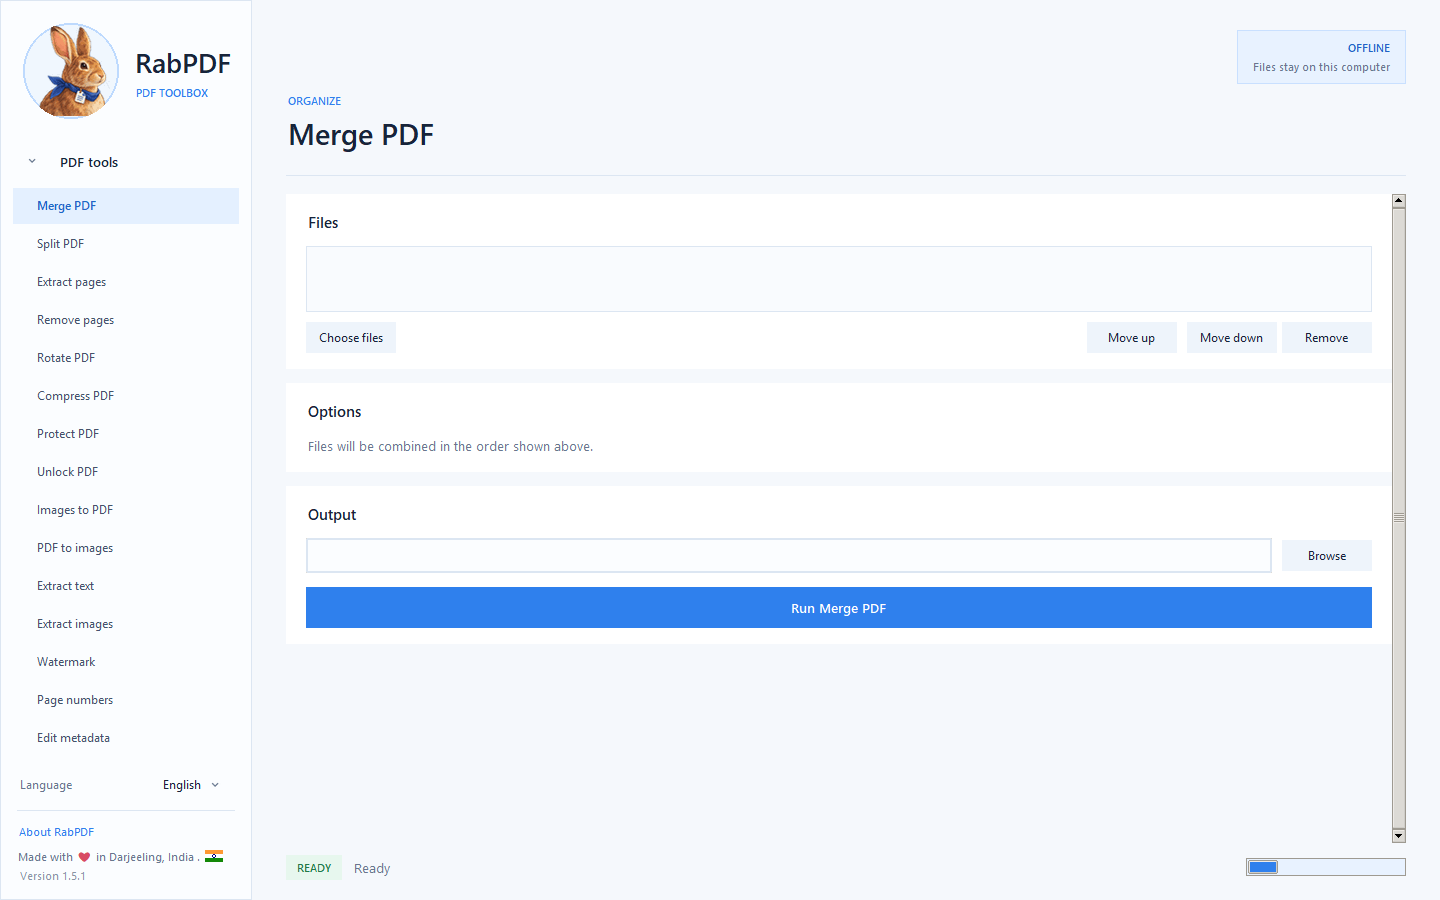
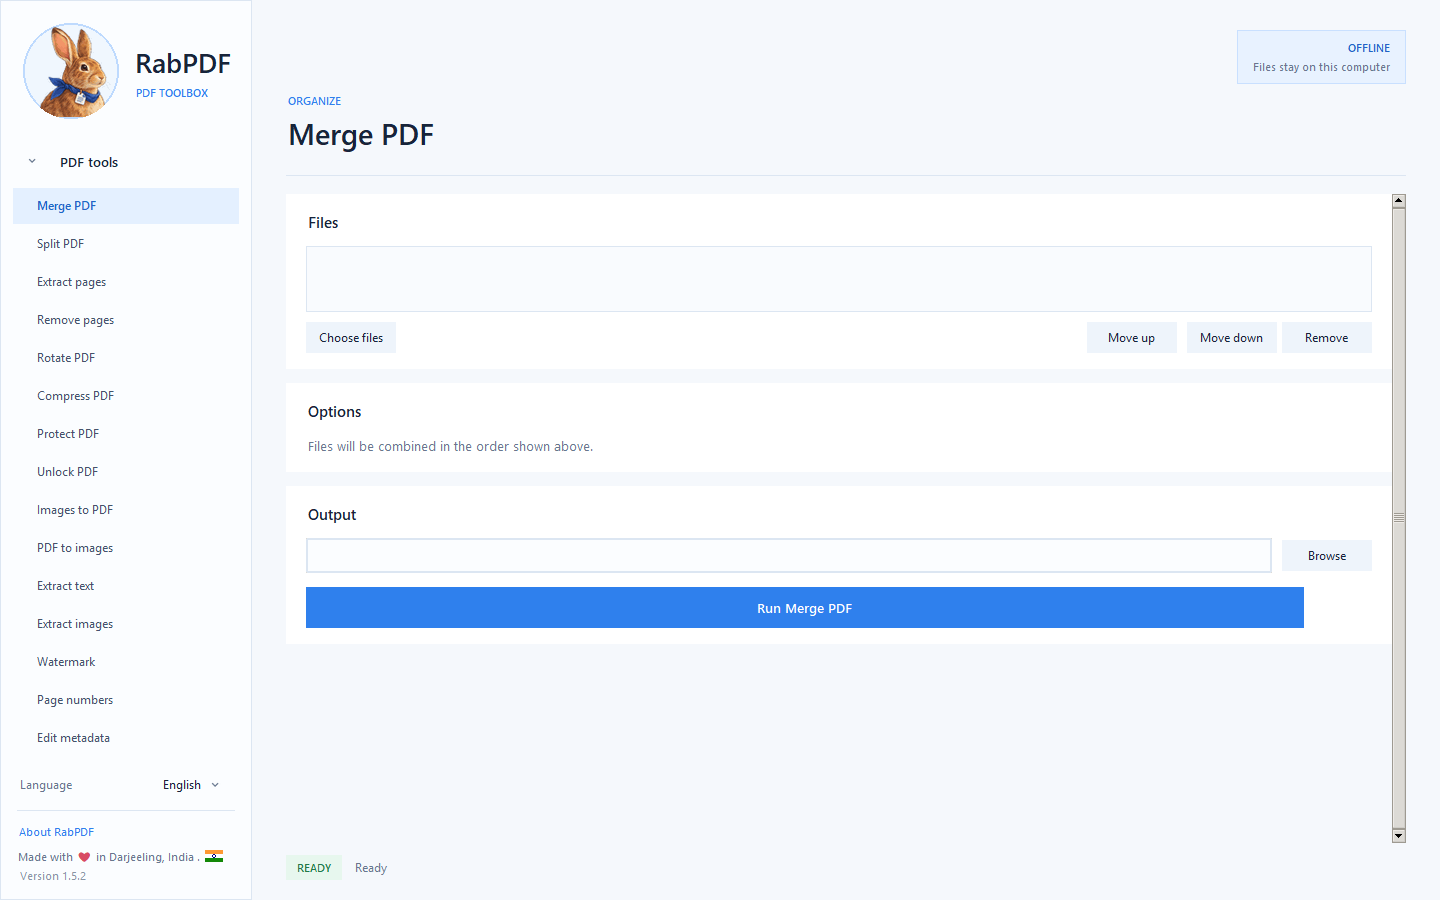
Release Windows 1.5.2 processing and output UI

diff --git a/README.md b/README.md
@@ -9,8 +9,8 @@ need to be installed. This repository hosts downloads, not application source.
 
 [Download the latest Windows release](https://github.com/nishanchettri/RabPDF-Releases/releases/latest)
 
-- **RabPDF-Windows-1.5.1.exe:** download and double-click to run.
-- **RabPDF-Windows-1.5.1-FastStart.zip:** extract first, then run RabPDF.exe.
+- **RabPDF-Windows-1.5.2.exe:** download and double-click to run.
+- **RabPDF-Windows-1.5.2-FastStart.zip:** extract first, then run RabPDF.exe.
   Keep the included _internal folder alongside the executable. This edition
   starts faster.
 - **SHA256SUMS.txt:** checksums for verifying the download bytes.
@@ -44,7 +44,7 @@ See [installation instructions](INSTALL.md), [release notes](RELEASE-NOTES.md),
 ![RabPDF rabbit icon](branding/rabpdf-icon-512.png)
 
 Main controls support English, German, Italian, French, Spanish and Portuguese.
-Some detailed help and error messages remain English. Windows 1.5.1 includes
+Some detailed help and error messages remain English. Windows 1.5.2 includes
 PDF input-list file drops and offline QR creation/reading. Physical Explorer
 drag gestures and installed-MSIX workflows still need further testing.
 

diff --git a/INSTALL.md b/INSTALL.md
@@ -4,12 +4,12 @@ Download only from this repository's Releases page.
 
 ## Portable EXE
 
-Download RabPDF-Windows-1.5.1.exe and double-click it. There is no installation
+Download RabPDF-Windows-1.5.2.exe and double-click it. There is no installation
 wizard and no need to install Python or supporting packages.
 
 ## FastStart ZIP
 
-Download RabPDF-Windows-1.5.1-FastStart.zip. Right-click and select Extract All.
+Download RabPDF-Windows-1.5.2-FastStart.zip. Right-click and select Extract All.
 Open the extracted folder and run RabPDF.exe. Keep _internal alongside the EXE.
 Do not run directly inside the ZIP or copy only the EXE out of this edition.
 
@@ -26,7 +26,7 @@ Checksums verify bytes; they do not authenticate the publisher or prove safety.
 In PowerShell, compare the hash against SHA256SUMS.txt:
 
 ```powershell
-Get-FileHash .\RabPDF-Windows-1.5.1.exe -Algorithm SHA256
+Get-FileHash .\RabPDF-Windows-1.5.2.exe -Algorithm SHA256
 ```
 
 Test with disposable copies before processing important documents. Compression

diff --git a/RELEASE-NOTES.md b/RELEASE-NOTES.md
@@ -1,3 +1,12 @@
+# Windows 1.5.2 - 2026-10-04
+
+- Compact blue circular processing indicator beside the action button.
+- Actual page, file or AI-tile percentages where measurable; loading and final saving use an indeterminate animation.
+- Processing indicator is hidden while idle and after completion or failure.
+- Click the completed output filename to open it, or use Show in folder to reveal it.
+- Existing six-language controls, offline tools and Darjeeling branding retained.
+
+Verification: 26 desktop regression tests, both packaged executable self-tests and a background PDF merge UI test passed. Installed-MSIX workflows remain unverified. This is not Microsoft Store certification.
 # Windows 1.5.1 - 2026-10-04
 
 - File drops in PDF input lists with single-file/batch validation.

diff --git a/screenshots/README.md b/screenshots/README.md
@@ -1,3 +1,3 @@
 # Desktop screenshots
 
-Actual Windows interface captures from RabPDF source version 1.5.1, matching the portable release. Empty tool states with no personal documents. Not installed-MSIX captures.
+Actual Windows interface captures from RabPDF source version 1.5.2, matching the portable release. Empty tool states with no personal documents. Not installed-MSIX captures.
